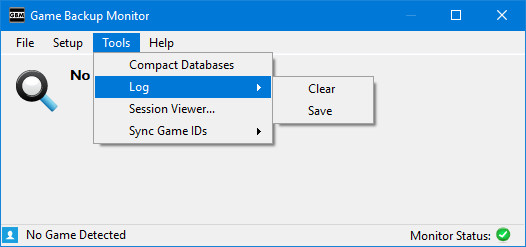
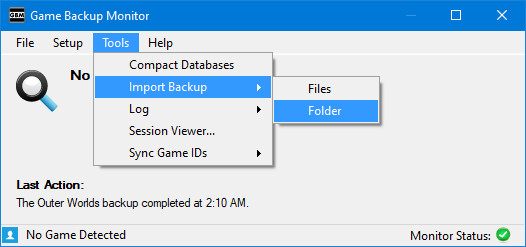
v1.2.0 Manual Updates

diff --git a/manual.html b/manual.html
@@ -30,10 +30,10 @@
       <div id="leftcontent">
         <div class="pageSection">
           <div class="pageSectionHeader">
-            Game Backup Monitor v1.1.8 Manual
+            Game Backup Monitor v1.2.0 Manual
           </div>
           <div class="pageSectionContent">
-            <h3 class="notop">Updated March 24, 2019</h3>
+            <h3 class="notop">Updated October 25, 2019</h3>
             <h3>Disclaimer:</h3>
             <p>This manual may contain information about features not available in the current stable release.</p>
             <p>If you are having a specific problem, please check the <a href="https://github.com/MikeMaximus/gbm/issues">issues</a> list.</p>
@@ -231,17 +231,19 @@
               <li>Add a new game to monitor by clicking the "+" (plus) button below the list box.</li>
               <li>Delete a game by selecting the game(s) from the list and clicking the the "-" (minus) button below the list box.</li>
               <li>Show all games by clicking the "All" option above the list box.</li>
-              <li>Show only games with backup data by clicking the "Backups Only" option above the list box. This filter displays ALL games with backup data, even games that are not currently configured.</li>
+              <li>Show only games with backup data by clicking the "Backups Only" option above the list box. This filter displays ALL games with backup data.</li>
               <li>Show only games with new save data to restore by clicking the "New Backups Pending" option above the list box.</li>
               <li>You can customize a list of games to display by clicking the "Custom" option above the list box.</li>
               <li>Quickly find games by typing the name in the Quick Filter.  This filter is applied on top of any other filter you may be using.</li>
-              <li>You can assign other programs to run each time one or more games are detected by selecting them and clicking the "Processes..." button.</li>
+              <li>You can assign other programs to run each time one or more games are detected by selecting them and clicking the "Link -> Process..." button.</li>
+              <li>You can link game configurations together using the "Link -> Configuration" button.  Linked configuations execute a backup or restore each time the currently selected configuration is triggered.</li>
               <li>You can edit the Tags for one or more games by selecting them and clicking the "Tags..." button.</li>
               <li>Restore an existing backup for a game by selecting the game(s) from the list and clicking the "Restore" button.</li>
               <li>You can mark a game as restored without restoring the data by selecting the game(s) from the list and clicking the "Mark as Restored" button.</li>
               <li>You can backup immediately without playing a game by selecting the game(s) from the list and click the "Backup" button.</li>
+              <li>You can import an existing backup file for the currently selected game using the "Import Backup Files" button.</li>
               <li>You can delete a backup file by selecting the game from the list, choosing a specific backup and clicking the "Delete Backup" button.  You may also delete all backups for that specific game.</li>
-              <li>You can locate the backup file by selecting the game and clicking the "Open Backup File" button.</li>
+              <li>You can locate the backup file or folder by selecting the game and clicking the "Open Backup" button.</li>
               <li>You can view the restore location of the backup file by selecting the game and clicking the "Open Restore Path" button.</li>
               <li>You can <a href="#import">import new game configurations</a> from the <a href="GBM_Official.xml">official list</a> or an XML file using the Import button.</li>
               <li>You can export your game configurations to an XML file using the Export button.</li>
@@ -265,6 +267,7 @@
               <li>You may also set an appropriate value in the "Parameter" field so GBM can determine exactly which game is running. See the "Parameter" section below for more details.</li>
             </ol></p>
             <p>On Linux, games running in Wine are a special case.  Please see the <a href="linux.html">Linux FAQ</a> for more details.</p>
+            <p>The process field can be left blank.  A configuration with an empty process field can only be triggered manually or by a configuration link.</p>
             <h4>Regular Expression:</h4>
             <p>This indicates that the Process field is a Regular Expression.</p>
             <p>Regular Expressions allow GBM to match based on a pattern, so one configuration can detect multiple executables.</p>
@@ -276,12 +279,23 @@
             <p>The full command is: "C:\GOG Games\Battlespire\DOSBOX\DOSBox.exe" -conf "..\dosbox_battlespire.conf" -conf "..\dosbox_battlespire_single.conf" -noconsole -c exit</p>
             <p>We need to set the "Parameter" to something unique in the command, that no other game would be using.  "dosbox_battlespire.conf" or "dosbox_battlespire_single" would work.</p>
             <p>Please note that GBM cannot detect based on only the Parameter, the correct Process must also be used.</p>
-            <h4>Path:</h4>
-            <p>The location of the save files for the game.</p>
-            <p>Most games don't tell you where they save. I highly recommend using PC Gaming Wiki or searching common locations such as the game's installation folder, My Documents or AppData for the location of game saves.</p>
+            <h4>Save Path:</h4>
+            <p>The location of the save files for the game.</p>            
             <p>This path can be absolute, or relative to the game's executable.</p>
-            <p>GBM will automatically determine absolute or relative path settings. If the save games are located in the game folder itself, you should always strive to use a path relative to the game's executable, this way your configuration will work on any PC regardless of where a game is installed. If you don't know what that means then I highly recommend using the "Add Game Wizard" to add new games.</p>
-            <p>The path can also be certain Windows registry locations, please see the <a href="#registry">Windows registry</a> section of the manual for more details.</p>
+            <p>GBM will automatically determine absolute or relative path settings. If the save games are located in the game folder itself, you should always strive to use a path relative to the game's executable, this way your configuration will work on any PC regardless of where a game is installed.</p>
+            <p>The path may also contain supported environment variables and/or <a href="#customvariables">custom path variables</a>.</p>
+            <p>GBM supports the following environment variables.
+            <ul>
+              <li>%USERDOCUMENTS% (This variable is set and only used by GBM at runtime.)</li>
+              <li>%COMMONDOCUMENTS% (This variable is set and only used by GBM at runtime.)</li>
+              <li>%LOCALAPPDATA%"</li>
+              <li>%APPDATA%</li>
+              <li>%USERPROFILE%</li>
+              <li>%PROGRAMDATA%</li>
+            </ul></p>
+            <p>GBM also supports the <a href="https://specifications.freedesktop.org/basedir-spec/basedir-spec-latest.html">XDG Base Directory Specification</a> while running in Linux.</p>
+            <p>The path can also be certain Windows registry locations, please see the <a href="#registry">Windows registry</a> section of the manual for more details.</p>            
+            <p>Most games don't tell you where they save. I highly recommend using <a href="https://www.pcgamingwiki.com" target=_blank>PC Gaming Wiki</a> or searching common locations such as the game's installation folder, My Documents or AppData for the location of game saves.</p>
             <h4>Save Entire Folder:</h4>
             <p>This indicates if GBM should backup the entire folder indicated in the path. If you don't really know what files are important to be saving, just tick this box. Choosing this option will disable and clear any Include Items.</p>
             <h4>Save Multiple Backups:</h4>
@@ -330,6 +344,7 @@
             <h3>Game Information</h3>
             <h4>Game Path:</h4>
             <p>This is the path to the game's executable file. In most cases GBM will auto-detect this information, but it can be set manually.</p>
+            <p>This field may also contain same supported environment variables and <a href="#customvariables">custom path variables</a> as the Save Path field.</p>
             <p>The path is used to determine the save location for games with a relative save path. It is also used to properly detect games that share process names, like DOSBox and ScummVM games.</p>
             <h4>Company:</h4>
             <p>You can manually set a company name to be displayed when the game is detected. This takes priority over the company information detected from the game's executable.</p>
@@ -337,16 +352,27 @@
             <p>You can manually set a version value to be displayed when the game is detected. This takes priority over the version information detected from the game's executable.</p>
             <h4>Icon:</h4>
             <p>You can manually set a icon to be displayed when the game is detected. This takes priority over the icon used by the game's executable.</p>
-            <h3>Processes:</h3>            
+            <h3>Link -&gt; Process:</h3>            
             <p>You can assign one or more programs to automatically run when a game is detected.  This could be useful to launch a custom control scheme or overlay whenever you play a particular game.</p><img class="manual" src="images/manual/manual_21.jpg" width="386" height="288" alt="Processes" /><br />
             <p>You can manage (Create, Edit or Delete) any Processes you want to use from the Setup menu or inside the Game Manager.</p><img class="manual" src="images/manual/manual_22.jpg" width="586" height="288" alt="Processes" /><br />            
-            <p>Select the processes and use the appropriate buttons to add or remove them.</p>            
+            <p>Select the processes and use the appropriate buttons to add or remove them.</p>
+            <h3>Link -&gt; Configuration:</h3>
+            <p>You may chain game configuations together.  This is an advanced feature that allows one configuration to trigger the backup or restore of any other linked configuration(s).  This is useful for games that may keep saves or other important files in multiple unique locations.
+            <br /><br /><img class="manual" src="images/manual/manual_25.jpg" width="486" height="388" alt="Configuration Links" />
+            <ul>
+              <li>Configurations are linked <b>one-way</b> by default.  For example, Config #1 -> Config #2 means Config #1 will trigger Config #2, but Config #2 will not trigger Config #1.</li>
+              <li>You can setup two-way links if you wish, but you must do this manually by also linking Config #2 -> Config #1 using the example above.</li>
+              <li>Links continue in a chain.  For example, Config #1 triggers Config #2, then Config #2 can trigger Config #3 and so on.</li>
+              <li>Only one instance of a configuration can exist in the same chain, if there are multiple links to the same configuration over a single chain they are ignored.</li>
+              <li>The XML import/export feature supports configuation linking, however all the configurations in the chain must be imported for it to work correctly.</li>
+              <li>When restoring linked configurations that use the "Save Multiple Backups" option, only the latest backup of each configuration in the chain can be restored. If an older backup is selected, you may still proceed without restoring any linked configuration(s).</li>
+            </ul></p>             
             <h3>Tags</h3>
             <p>You can use Tags to organize your game list. You can manage (Create, Edit or Delete) any Tags you want to use from the Setup menu or inside the Game Manager.</p><img class="manual" src="images/manual/manual_13.jpg" width="586" height="288" alt="Tags" /><br />
             <p>Tags allow you to filter the games you want to view in the Game Manager or the configurations you may want to Export to an XML file.</p><img class="manual" src="images/manual/manual_08.jpg" width="386" height="288" alt="Tags" /><br />
             <p>Select the tags and use the appropriate buttons to add or remove them.</p>
             <h4>Important notice regarding adding tags or processes to multiple games:</h4>
-            <p>When you're modifying processes or tags for multiple games, the "Current" list shows every item used by each game you have selected, this doesn't mean those items are already applied to every game selected. If you'd like to apply an item to each selected game and it's already used, simply remove it then re-add it.</p>
+            <p>When you're modifying processes, tags or linked configurations for multiple games, the "Current" list shows every item used by each game you have selected, this doesn't mean those items are already applied to every game selected. If you'd like to apply an item to each selected game and it's already used, simply remove it then re-add it.</p>
             <h3>Monitor Settings</h3>
             <h4>Monitor this Game:</h4>
             <p>This box indicates that GBM will actively monitor for this game.</p>
@@ -367,12 +393,14 @@
             <ul>
               <li>Importing a single backup file will attempt to overwrite the current backup file if one exists. Enable "Save Multiple Backups" if you don't want to overwrite the current backup.</li>
               <li>Importing multiple backup files requires "Save Multple Backups" to be enabled .</li>
-              <li>GBM currently cannot verify that the backup files being imported are compatible with the current configuration.  It's up to the user to import compatible files.</li>
+              <li>GBM will attempt to verify imported backup files and display warnings if a problem is detected.  However, you can still force GBM to import a backup file using this method.</li>
             </ul></p>
             <h4>Delete Backup:</h4>
             <p>This allows deleting the currently selected backup or all backups for the selected game.</p>
-            <h4>Open Backup File:</h4>
+            <h4>Open Backup -&gt; File:</h4>
             <p>This opens the selected backup file in the default software associated with 7-Zip files.</p>
+            <h4>Open Backup -&gt; Folder:</h4>
+            <p>This opens the folder containing the selected backup file using the default folder browser.</p>
             <h4>Open Restore Path:</h4>
             <p>This automatically opens the backup's restore path in the default file browser software.</p>
           </div>
@@ -467,6 +495,16 @@
             <img class="manual" src="images/manual/manual_10.jpg" width="526" height="247" alt="Tools" />
             <h4>Compact Databases</h4>
             <p>This is used to rebuild GBM's databases to use an optimal amount of disk space. It should only be used when databases are reaching a noticably large size.</p>
+            <h4>Import Backup -&gt; Files/Folder</h4>
+            <p>This allows you to import GBM backup files or folders.
+            <ul>
+              <li>Only 7-Zip backup archives containing metadata(_gbm_backup_metadata.xml) are supported by this feature.  This is any backup file created by GBM v1.2.0 or later.</li>
+              <li>You may force the import of older or other backup archives using the "Import Backup Files" feature in the Game Manager.</li>              
+              <li>When the backup configuration for an imported file doesn't exist, it will be created based on the metadata in the file.</li>
+              <li>When the backup configuration for an imported file exists but doesn't match the metadata, it will be updated to match the metadata in the file.</li>
+              <li>If a backup file already exists, it will be overwritten by the imported file without prompt unless the configuration is using the "Save Multiple Backups" option.</li>
+              <li>Backup files cannot be imported if the source location is the same as the destination.  For example, importing a file that already exists in your current GBM backup folder will fail, if you need to do this copy the file or folder somewhere else first.</li>
+            </ul></p>
             <h4>Log -&gt; Clear</h4>
             <p>This is used to clear the current session log.</p>
             <h4>Log -&gt; Save</h4>
@@ -561,7 +599,8 @@
             <h4>What data is synced?</h4>
             <ul>
               <li>Game Configurations</li>
-              <li>Tags</li>
+              <li>Game Configuration Links</li>
+              <li>Tags</li>              
             </ul>
             <h4>What data is not synced?</h4>
             <ul>
